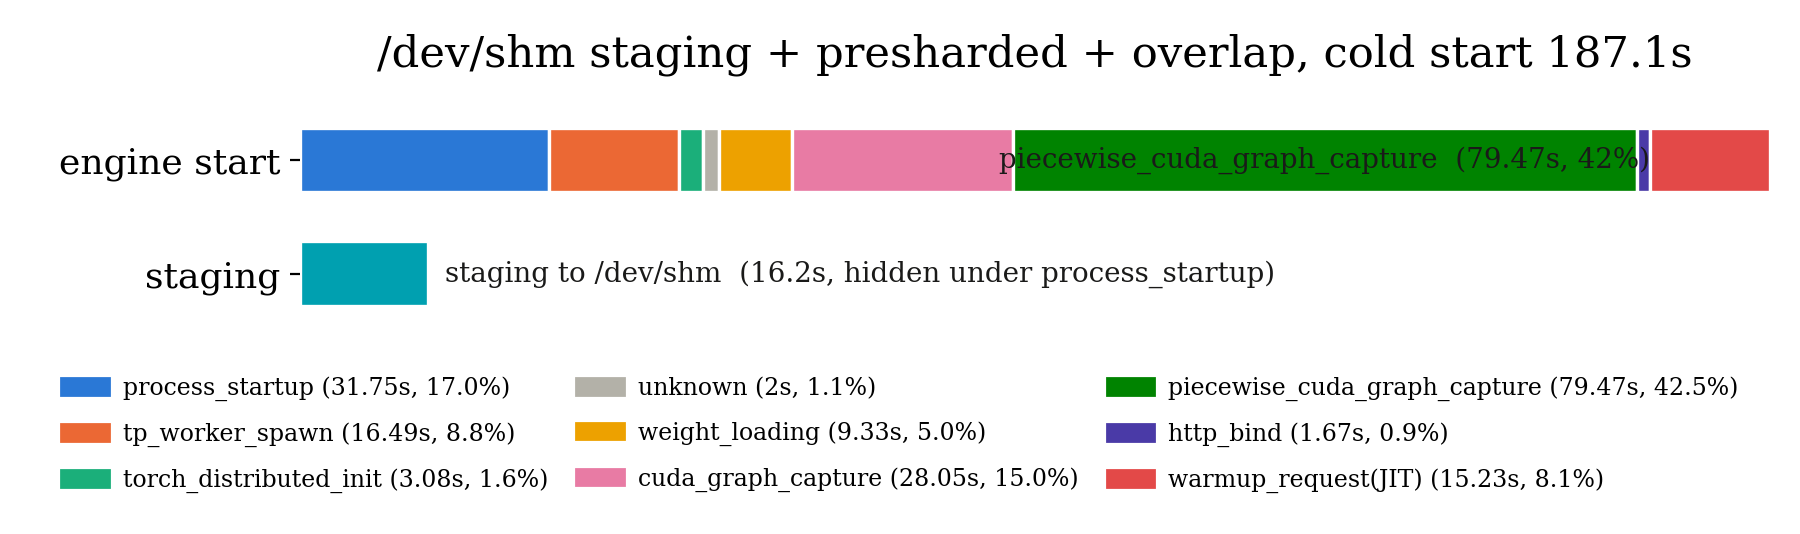
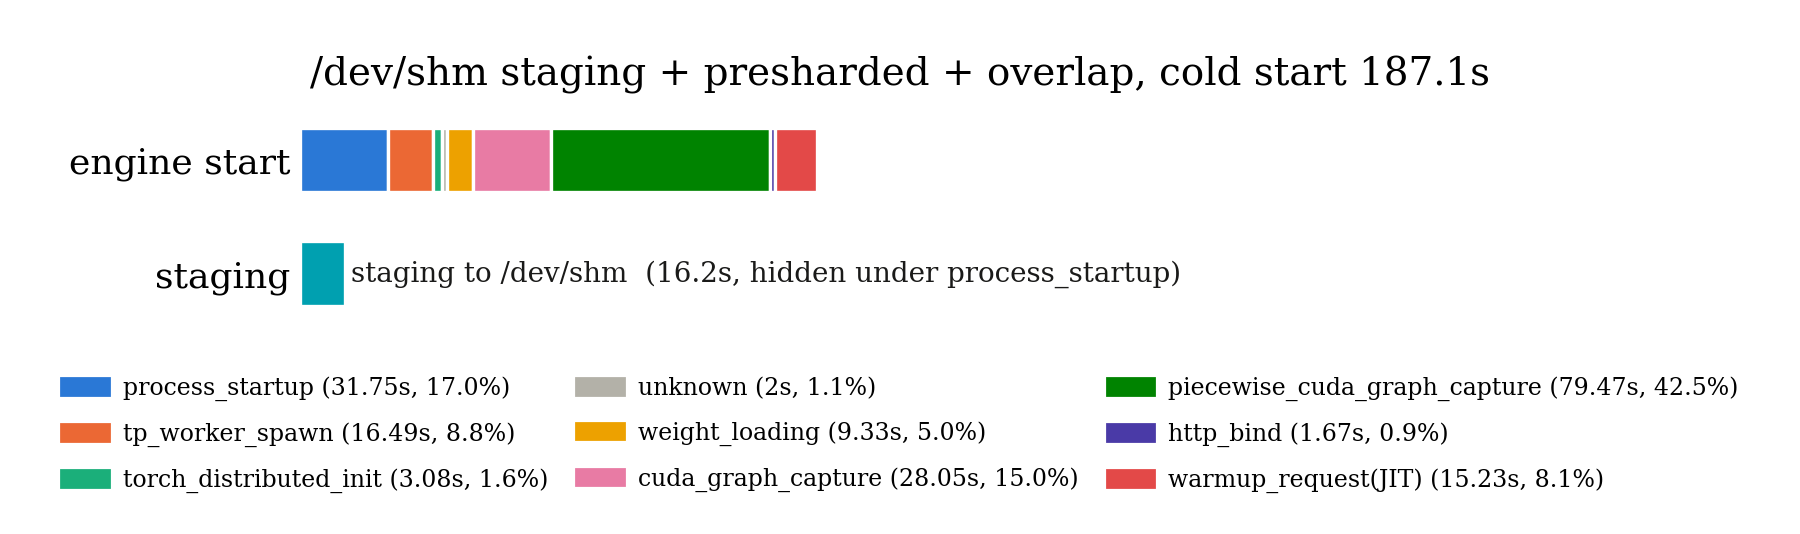
docs: put both breakdown plots on a shared time scale
1s is now the same width in plot_time_breakdown.py and
plot_overlap_breakdown.py, so the overlap arm visibly ends at ~30% of
the baseline's width. Drop inline segment labels and y-axis ticks on the
overlap plot, figure-center its title.

Changed region(s): [[0.0311, 0.2397, 0.9956, 0.3596], [0.1556, 0.0599, 0.9333, 0.1798], [0.0622, 0.4494, 0.7156, 0.5693]]

diff --git a/experiments/lustre-loading-exp/scripts/analysis/plot_overlap_breakdown.py b/experiments/lustre-loading-exp/scripts/analysis/plot_overlap_breakdown.py
@@ -47,28 +47,31 @@ SCALE = ROW_IN / LANE_DATA
 Y_MAIN, Y_STAGE = 0.30, -0.30
 YLIM = 0.62
 
-FIG_W = 9.0
+# shared time axis: 1 second is the same width in this plot and in
+# plot_time_breakdown.py, so the two bars can be compared directly. On this
+# scale the whole arm is only ~30% of the baseline's width.
+IN_PER_SEC = 8.7 / 630.0
+FIG_W = 9.0  # same canvas width in both plots
 M_TOP, M_LEFT, M_RIGHT, M_BOT = 0.5, 1.5, 0.15, 0.10
 GAP, LEGEND_IN = 0.12, 0.78
 
+axes_w = total * IN_PER_SEC
 axes_h = 2 * YLIM * SCALE
 fig_h = M_TOP + axes_h + GAP + LEGEND_IN + M_BOT
 fig = plt.figure(figsize=(FIG_W, fig_h))
 ax = fig.add_axes([
     M_LEFT / FIG_W,
     (M_BOT + LEGEND_IN + GAP) / fig_h,
-    (FIG_W - M_LEFT - M_RIGHT) / FIG_W,
+    axes_w / FIG_W,
     axes_h / fig_h,
 ])
 
+# no inline segment labels: at the shared time scale no segment is wide
+# enough to hold its name, so everything is carried by the legend.
 left = 0.0
 for name, dur, color in phases:
     ax.barh(Y_MAIN, dur, left=left, height=BAR_H, color=color,
             edgecolor="white", linewidth=1.2)
-    pct = dur / total * 100
-    if pct >= 30:
-        ax.text(left + dur / 2, Y_MAIN, f"{name}  ({dur:g}s, {pct:.0f}%)",
-                ha="center", va="center", fontsize=10, color="#1a1a19", clip_on=False)
     left += dur
 
 ax.barh(Y_STAGE, STAGE_DUR, height=BAR_H, color="#00a0b0",
@@ -81,10 +84,12 @@ ax.set_xlim(0, total)
 ax.set_ylim(-YLIM, YLIM)
 ax.set_yticks([Y_MAIN, Y_STAGE])
 ax.set_yticklabels(["engine start", "staging"])
+ax.tick_params(axis="y", length=0)
 ax.set_xticks([])
 for s in ("top", "right", "left", "bottom"):
     ax.spines[s].set_visible(False)
-ax.set_title(f"/dev/shm staging + presharded + overlap, cold start {total:.1f}s", pad=12)
+fig.suptitle(f"/dev/shm staging + presharded + overlap, cold start {total:.1f}s",
+             y=1 - 0.28 / fig_h, fontsize=14)
 
 legend_handles = [plt.Rectangle((0, 0), 1, 1, color=c) for _, _, c in phases]
 legend_labels = [f"{n} ({d:g}s, {d/total*100:.1f}%)" for n, d, _ in phases]

diff --git a/experiments/lustre-loading-exp/scripts/analysis/plot_time_breakdown.py b/experiments/lustre-loading-exp/scripts/analysis/plot_time_breakdown.py
@@ -34,17 +34,21 @@ SCALE = ROW_IN / LANE_DATA
 
 YLIM = 0.26
 
-FIG_W = 9.0
+# shared time axis: 1 second is the same width in this plot and in
+# plot_overlap_breakdown.py, so the two bars can be compared directly.
+IN_PER_SEC = 8.7 / 630.0
+FIG_W = 9.0  # same canvas width in both plots
 M_TOP, M_LEFT, M_RIGHT, M_BOT = 0.5, 0.18, 0.15, 0.10
 GAP, LEGEND_IN = 0.12, 0.78
 
+axes_w = total * IN_PER_SEC
 axes_h = 2 * YLIM * SCALE
 fig_h = M_TOP + axes_h + GAP + LEGEND_IN + M_BOT
 fig = plt.figure(figsize=(FIG_W, fig_h))
 ax = fig.add_axes([
     M_LEFT / FIG_W,
     (M_BOT + LEGEND_IN + GAP) / fig_h,
-    (FIG_W - M_LEFT - M_RIGHT) / FIG_W,
+    axes_w / FIG_W,
     axes_h / fig_h,
 ])
 
